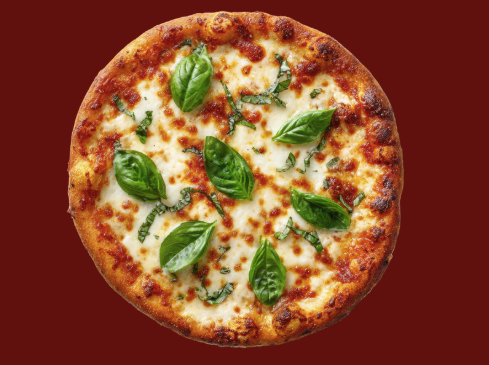
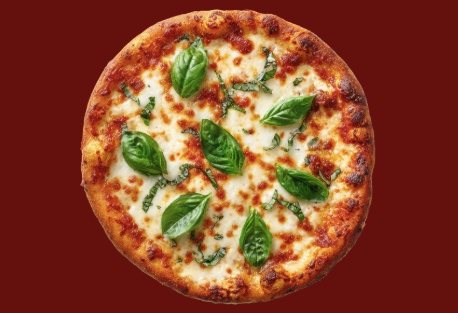
Cardápio em desenvolvimento

diff --git a/Pizzaria/Cardapio/index.html b/Pizzaria/Cardapio/index.html
@@ -110,6 +110,39 @@
                             <p class="preco">R$ 49,99</p>
                         </figcaption>
                     </figure>
+
+                    <figure class="comboFigure">
+                        <img src="/Pizzaria/imgs/pizza-bacon.png" alt="Pizza bacon" class="comboImg">
+                        <figcaption>
+                            <h3 class="nomeProduto">Pizza bacon</h3>
+                            <p class="preco">R$ 48,99</p>
+                        </figcaption>
+                    </figure>
+
+                    <figure class="comboFigure">
+                        <img src="/Pizzaria/imgs/pizza-espinafre.png" alt="Pizza espinafre" class="comboImg">
+                        <figcaption>
+                            <h3 class="nomeProduto">Pizza espinafre</h3>
+                            <p class="preco">R$ 28,99</p>
+                        </figcaption>
+                    </figure>
+
+                    <figure class="comboFigure">
+                        <img src="/Pizzaria/imgs/pizza-queijo.png" alt="Pizza queijo" class="comboImg">
+                        <figcaption>
+                            <h3 class="nomeProduto">Pizza queijo</h3>
+                            <p class="preco">R$ 28,99</p>
+                        </figcaption>
+                    </figure>
+
+                    <figure class="comboFigure">
+                        <img src="/Pizzaria/imgs/pizza-tomate.png" alt="Pizza tomate" class="comboImg">
+                        <figcaption>
+                            <h3 class="nomeProduto">Pizza tomate</h3>
+                            <p class="preco">R$ 28,99</p>
+                        </figcaption>
+                    </figure>
+                    
                 </div>
 
                 <div class="bebidas">

diff --git a/Pizzaria/estilos/style-menu.css b/Pizzaria/estilos/style-menu.css
@@ -8,9 +8,13 @@
     src: url(/Pizzaria/fonts/Antonio-VariableFont_wght.ttf);
 }
 
-.combos, .pizzas{
+.combos, .pizzas, .bebidas{
     display: flex;
     flex-direction: row;
+}
+
+.pizzas, .bebidas{
+    flex-wrap: wrap;
 }
 
 #pizzas {
@@ -26,8 +30,11 @@
 .pizzas figure{
     width: 600px;
     height: 320px;
+    margin-bottom: 2%;
     padding-bottom: 40px;
 }
+
+
 
 .hProdutos{
     font-family: "Aton";